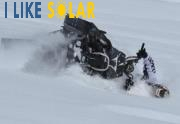
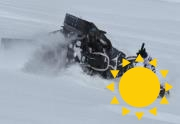
few small tweaks

Changed region(s): [[0.5833, 0.4355, 0.9722, 0.9677], [0.0278, 0.0, 0.5556, 0.1694]]

diff --git a/public/index.html b/public/index.html
@@ -9,62 +9,6 @@
       <div>Loading...</div>
       <img src='{{BASEURL}}/img/loading-orange-t2.gif'>
     </div>
-
-<!--     <div ng-show="!loading && loggedIn" class='wrapper'>
-      <div class="fb-like" data-href="http://apps.facebook.com/i_like_solar_beta" data-width="100" data-layout="button_count" data-action="like" data-show-faces="true" data-share="true"></div>
-
-      <div class="heading">
-        <h3>Welcome, {{name}}!</h3>
-        <div>
-          <p class='center'>We're glad you chose to become a solar advocate! Please give us just a bit more information.</p>
-        </div>
-      </div>
-
-      <hr>
-
-      <div class="options">
-        <div ng-show="showDrop">
-          <div class="mBottom">Who's your solar provider?</div>
-          <select ng-model="company" ng-options="c for c in companies"></select>
-          <div ng-show="company=='Other'">
-            <div class="mBottom">Not listed? Type their name below</div>
-            <input type="text" ng-model="company2">
-          </div>
-        </div>
-        <div ng-show="!showDrop">
-          <h4 class="mBottom">Welcome {{company}} advocate!</h4>
-        </div>
-        <label class="checkbox"><input type="checkbox" ng-model="swFriends"> Share with Friends</label>
-        <label class="checkbox"><input type="checkbox" ng-model="swFoF"> Share with Friends of Friends</label>
-        <button class="btn" ng-disabled="verify(company, company2) || saving" ng-click="saveOptions(company, company2, swFriends, swFoF)">{{saving && 'Updating' || 'Update'}}</button>
-      </div>
-
-      <hr>
-
-      <div class="action life-event">
-          <h3>Share your solar story</h3>
-          <p>Do your solar panels make a difference? Share your story with your friends.</p>
-          <button class="btn btn-success bottom" ng-click="postfeed()">Share your story</button>
-    	</div>
-
-      <hr>
-
-      <div class="action request-friends">
-          <h3>Invite your friends</h3>
-          <p>Have friends with solar? Invite them to join I Like Solar!</p>
-          <button class="btn btn-success bottom" ng-click="requestfriends()">Invite Friends</button>
-    	</div>
-
-      <hr>
-
-      <div class="solarize">
-        <h3>Solarize Your Photo!!</h3>
-        <button class="btn btn-success" ng-disabled="solarizing" ng-click='solarizePhoto()'>{{solarizing && 'Solarizing' || 'Solarize Your Profile Picture'}}</button>
-        <img ng-src="{{picUrl}}">
-        <p ng-show="solarized_url"><a href="{{solarized_url}}">Link to your Solarized Picture!</a></p>
-      </div>
-    </div> -->
-
     <div ng-show="!loading" class='wrapper'>
       <span class="logo">
         <img ng-src="img/logo.png">
@@ -82,9 +26,14 @@
       </div>
       <div class="double-pane">
         <div class="first-pane">
-          <span class="fb-title text">Generate power with a click</span>
-          <img class="arrow" ng-src="img/arrow.png">
-          <img class="fb-login-btn" ng-src="img/fb-logo.png" ng-click="login()" ng-disabled="joining">
+          <div ng-show="signedUp">
+            <span class="fb-title text">Welcome {{name}}!</span>
+          </div>
+          <div ng-show="!signedUp">
+            <span class="fb-title text">Generate power with a click</span>
+            <img class="arrow" ng-src="img/arrow.png">
+            <img class="fb-login-btn" ng-src="img/fb-logo.png" ng-click="login()" ng-disabled="joining">
+          </div>
         </div>
         <div class="second-pane">
           <span class="text">Getting solar was a great idea, right? It is cost effective - and good for the environment. And great ideas deserve to be shared. Share your solar story on Facebook and help multiply solar power in your community.</span>
@@ -144,13 +93,17 @@
       </div>
       <span class="title text">Solarize your profile</span>
       <img class="top" ng-src="img/top.png" ng-click="scrollToTop()">
-      <div class="solarization">
-        <img ng-src="img/solarization.png">
-        <span class="solarization-right">
+      <div class="double-pane marginBottom">
+        <div class="first-pane">
+          <img ng-src="img/solarization.png">
+        </div>
+        <div class="second-pane solarize">
           <img ng-src="{{picUrl}}">
-          <button class="btn btn-success" ng-click='solarizePhoto()' ng-disabled="!loggedIn">{{solarizing && 'Solarizing' || 'Solarize Your Profile Picture'}}</button>
-          <p ng-show="solarized_url"><a href="{{solarized_url}}">Link to your Solarized Picture!</a></p>
-        </span>
+          <div class="center">
+            <button class="btn btn-success" ng-click='solarizePhoto()' ng-disabled="!loggedIn">{{solarizing && 'Solarizing' || 'Solarize Your Profile Picture'}}</button>
+            <p ng-show="solarized_url"><a href="{{solarized_url}}">Link to your Solarized Picture!</a></p>
+          </div>
+        </div>
       </div>
       <div class="plug">
         <img ng-src="img/plug-right.png">

diff --git a/public/js/controller.js b/public/js/controller.js
@@ -1,15 +1,18 @@
 /* global angular, console, BASE_URL */
 angular.module('i-like-solar').controller('fbCtrl',
-  function ($scope, $location, $timeout, $window, fb, salsa) {
+  function ($scope, $location, $timeout, $modal, $window, fb, salsa) {
     'use strict';
 
     $scope.alerts    = [];
+    $scope.signedUp  = false;
     $scope.company   = $location.search().company;
-    $scope.companies = ['Vivint', 'Sungevity', 'Enphase', 'Other'];
+    $scope.source    = $location.search().source;
+
+    $scope.companies = ['Clean Power Finance', 'Enphase', 'SolarCity', 'Sungevity', 'SunPower', 'Sunrun', 'Vivint', 'Other'];
     if ($scope.companies.indexOf($scope.company) === -1) {
       $scope.company = null;
     }
-    $scope.showDrop  = $scope.company ? false : true;
+    $scope.showDrop  = $scope.company === null ? true : false;
     $scope.loggedIn  = false;
     $scope.loading   = true;
 
@@ -50,10 +53,6 @@ angular.module('i-like-solar').controller('fbCtrl',
           token = res.authResponse.accessToken;
           $scope.loggedIn = true;
           loadApp();
-
-          // $modal.open({
-          //   templateUrl: 'permissions.html'
-          // });
           createAlert('success', 'Congrats! Thanks for joining!');
         } else {
           $scope.joining = false;
@@ -106,12 +105,14 @@ angular.module('i-like-solar').controller('fbCtrl',
       return company === 'Other' ? !company2 : !company;
     };
 
-    $scope.saveOptions = function (company, company2, swFriends, swFoF) {
+    $scope.saveOptions = function (company, company2, swFriends, swFoF, source) {
+      console.log(source);
       $scope.saving = true;
       var obj = {
         id:      id,
         token:   token,
         company: company !== 'Other' ? company : company2,
+        source:  source,
         privacy: {
           friends: swFriends,
           friendsOfFriends: swFoF
@@ -124,6 +125,7 @@ angular.module('i-like-solar').controller('fbCtrl',
           createAlert('error', 'Oops, something went wrong.');
           return console.error(err);
         }
+        $scope.permissionModal.close();
         createAlert('success', 'Your info has been saved!');
       });
     };
@@ -151,23 +153,31 @@ angular.module('i-like-solar').controller('fbCtrl',
       var gotOptions = false;
 
       $scope.loggedIn = true;
-      $scope.loading = false;
-      // fb.getUser(function (res) {
-      //   $scope.userId = res.id || null;
-      //   $scope.name = res.first_name || res.name;
-      //   gotName = true;
-      //   if (gotOptions) $scope.loading = false;
-      // });
+      // $scope.loading = false;
+      fb.getUser(function (res) {
+        $scope.userId = res.id || null;
+        $scope.name = res.first_name || res.name;
+        gotName = true;
+        $scope.signedUp = true;
+        if (gotOptions) $scope.loading = false;
+      });
 
-      // salsa.getOptions({ id: id, token: token }, function (err, data) {
-      //   gotOptions = true;
-      //   if (!gotName) $scope.loading = false;
-      //   if (err) return console.error(err);
-      //   $scope.company = data.company;
+      salsa.getOptions({ id: id, token: token }, function (err, data) {
+        gotOptions = true;
+        if (!gotName) $scope.loading = false;
+        if (err) return showModal();
+        $scope.company = data.company;
 
-      //   $scope.swFriends = data.privacy.friends;
-      //   $scope.swFoF = data.privacy.friendsOfFriends;
-      // });
+        $scope.swFriends = data.privacy.friends;
+        $scope.swFoF = data.privacy.friendsOfFriends;
+      });
+    }
+
+    function showModal() {
+      $scope.permissionModal = $modal.open({
+        templateUrl: 'permissions.html',
+        scope: $scope
+      });
     }
 
     function createAlert(type, msg) {

diff --git a/public/css/style.css b/public/css/style.css
@@ -20,10 +20,9 @@ h3 {
   text-align: center;
 }
 .wrapper {
-  width: 80%;
   margin: 0 auto;
   padding: 30px;
-  max-width: 1000px;
+  width: 1000px;
 }
 .loading {
   padding: 30px;
@@ -32,8 +31,14 @@ h3 {
 .loading div {
   margin-bottom: 20px;
 }
+.solarize {
+  text-align: center;
+}
 .solarize img {
   width: 200px;
+}
+.solarize button {
+  margin-top: 10px;
 }
 .mBottom {
   margin-bottom: 5px;
@@ -61,6 +66,9 @@ h3 {
 }
 .double-pane.big-box {
   height: 400px;
+}
+.double-pane.marginBottom {
+  margin-bottom: 100px;
 }
 .first-pane {
   display: inline-block;
@@ -108,14 +116,6 @@ h3 {
 .top:hover {
   cursor: pointer;
 }
-.solarization-right {
-  float: right;
-  width: 300px;
-  text-align: center;
-}
-.solarization-right button {
-  margin-top: 10px;
-}
 .fb-event {
   width: 300px;
   margin-top: 25px;
@@ -129,4 +129,7 @@ h3 {
 }
 .num-wrapper {
   margin: 0 10px 0 10px;
+}
+.options {
+  margin: 20px 20px 20px 20px;
 }

diff --git a/public/permissions.html b/public/permissions.html
@@ -12,5 +12,5 @@
   </div>
   <label class="checkbox"><input type="checkbox" ng-model="swFriends"> Share with Friends</label>
   <label class="checkbox"><input type="checkbox" ng-model="swFoF"> Share with Friends of Friends</label>
-  <button class="btn" ng-disabled="verify(company, company2) || saving" ng-click="saveOptions(company, company2, swFriends, swFoF)">{{saving && 'Updating' || 'Update'}}</button>
+  <button class="btn" ng-disabled="verify(company, company2) || saving" ng-click="saveOptions(company, company2, swFriends, swFoF, source)">{{saving && 'Saving' || 'Save'}}</button>
 </div>

diff --git a/utils/salsa.js b/utils/salsa.js
@@ -110,6 +110,7 @@ function _findUser(key, jar, cb) {
 }
 
 function _createUser(user, groupKey, jar, cb) {
+  console.log(user.source);
   request({
     url: apiUrl + 'save',
     method: 'POST',
@@ -120,6 +121,7 @@ function _createUser(user, groupKey, jar, cb) {
       solar_company:     user.company,
       supporter_groups:  groupKey,
       privacy_settings2: user.privacy,
+      adsource:          user.source,
       link:              'chapter',
       linkKey:           salsaChapterKey,
       json:              true

diff --git a/routes/photo.js b/routes/photo.js
@@ -54,7 +54,7 @@ function _solarize(file, cb) {
       var logo    = new Canvas.Image();
       logo.onload = function () {
         ctx.drawImage(img, 0, 0, img.width, img.height);
-        ctx.drawImage(logo, 5, 0, img.width / 2, 20);
+        ctx.drawImage(logo, img.width - logo.width, img.height - logo.height, logo.width, logo.height);
         _saveCanvas(canvas, file, function (err) {
           if (err) return cb (err);
           cb();

diff --git a/routes/users.js b/routes/users.js
@@ -56,7 +56,8 @@ function postUser(req, res) {
     id:      data.id + '@koobecaf.com',
     token:   data.token,
     company: data.company,
-    privacy: JSON.stringify(data.privacy)
+    privacy: JSON.stringify(data.privacy),
+    source:  data.source
   };
   salsa.save(user, function (err) {
     if (err) return _fail(res, err);

diff --git a/public/js/module.js b/public/js/module.js
@@ -1,2 +1,2 @@
 /* global angular */
-angular.module('i-like-solar', []);
+angular.module('i-like-solar', ['ui.bootstrap']);
